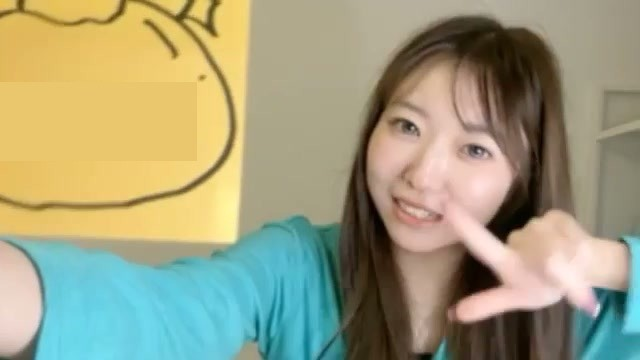
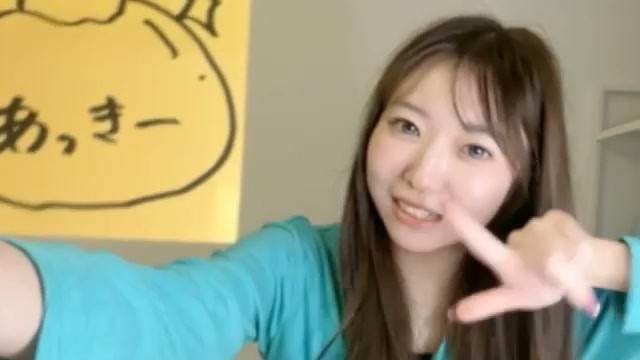
11/1朝：0:13:00の紙の名前隠しを外し元フレームに戻す（オーナー確認）・MEDIA台帳SHA256更新

Changed region(s): [[0.0, 0.2444, 0.2812, 0.4278]]

diff --git a/src/data/streamRecap1101Morning.ts b/src/data/streamRecap1101Morning.ts
@@ -65,6 +65,6 @@ export const streamRecap1101Morning: StreamRecap = {
     material: AUTO_TRANSCRIPT_MATERIAL_NOTE,
     stills: "静止画は当日の保存録画の実フレーム11枚を掲載しています。",
     publishedClips: true,
-    extra: "見どころとタイムスタンプの時刻は録画先頭からの目安です。録画は6:06頃から約30分で、配信の正式な終了時刻は確認していません。付箋や手に持った紙に書かれた名前は、無地の紙色で隠しています。顔や身体の生成・補正はしていません。短尺1本は同じ回の録画から切り出した本人のあいさつで、元の音声を保持しています。歌の曲名は確認できていないため、この回に歌った曲には載せていません。原音の全編手動聴取・逐語校正は未実施です。",
+    extra: "見どころとタイムスタンプの時刻は録画先頭からの目安です。録画は6:06頃から約30分で、配信の正式な終了時刻は確認していません。背景の付箋に書かれた名前は、無地の紙色で隠しています。顔や身体の生成・補正はしていません。短尺1本は同じ回の録画から切り出した本人のあいさつで、元の音声を保持しています。歌の曲名は確認できていないため、この回に歌った曲には載せていません。原音の全編手動聴取・逐語校正は未実施です。",
   }),
 };

diff --git a/docs/MEDIA.md b/docs/MEDIA.md
@@ -2,10 +2,10 @@
 
 - **承認範囲**：オーナーが11月1日朝の配信後に「各サイトの配信レポート更新、ライブストリーム更新、可愛い場面の切り取りとスクショ」を依頼。0:13:00付近の手に持った紙のコマはオーナーが個別に使用可と確認。対象は当該SHOWROOM朝配信の**LIVE STREAM記事とMILY SIGNAL個別記事の導線**に限定し、一般Gallery・NEWS・別配信・SNSへ転用しない。本人写真の追加のため、Draft PRでオーナー確認を経てからmerge判断する。
 - **正本**：同回の保存済み640×360録画（約30分7秒）。原録画をリネーム・上書き・再処理せず、私的作業領域に派生を分離。等間隔29候補を全点目視し、表情と仕草の違う11点を採用。代表は08（0:17:10）の壁の付箋を示す笑顔。
-- **写真**：元640×360を保持、JPEG quality90、EXIF/IPTC/GPSなし。顔・髪・手・身体の生成・補正・置換なし。背景の付箋（07〜11）と、06で手に持った紙に書かれた手書きの名前だけを、同じ紙面の中央値色の不透明矩形で非表示（生成塗り足しなし）。矩形外の画素は採用フレームのまま。
+- **写真**：元640×360を保持、JPEG quality90、EXIF/IPTC/GPSなし。顔・髪・手・身体の生成・補正・置換なし。背景の付箋（07〜11）に書かれた手書きの名前だけを、同じ紙面の中央値色の不透明矩形で非表示（生成塗り足しなし）。矩形外の画素は採用フレームのまま。06（0:13:00）の手に持った紙は、2026-11-01のオーナー確認により隠しを外し、採用フレームを無加工でJPEG quality90に再保存。
 - **短尺**：録画内0:00:29.95から8.85秒、640×360 H.264＋AAC 20fps。リスナーの名前を読み上げる直前の区間を除いた本人のあいさつのみ。BGM・字幕・声の加工なし。他の4候補（0:07:44／0:08:46／0:17:05／0:28:31）はリスナー名や他の参加者の話題を含むため非掲載。
 - **時刻の扱い**：表中の時刻は録画先頭からの目安で、正式な配信開始・終了時刻ではない。本文は全区間の自動文字起こしと主要8区間の再文字起こしで照合し、原音全編の手動聴取・逐語校正は未実施。
-- **公開しないもの**：全編録画、ASR全記録、数値生ログ、視聴者名・コメント・ランキングの個人名、紙・付箋の手書きの名前、非公開パス。
+- **公開しないもの**：全編録画、ASR全記録、数値生ログ、視聴者名・コメント・ランキングの個人名、背景の付箋の手書きの名前、非公開パス。
 
 | # | 公開ファイル（JPEG：public/media/live/、MP4：public/media/live-clips/） | 録画内の目安 | Bytes | SHA256 |
 | --- | --- | --- | ---: | --- |
@@ -14,7 +14,7 @@
[8 lines of base64/hex data omitted]
